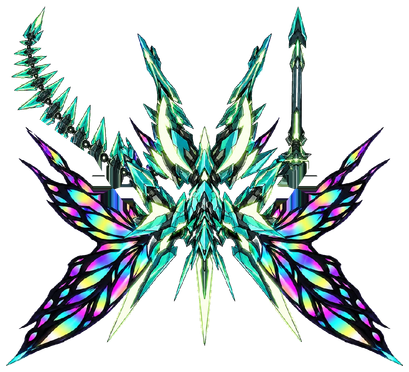
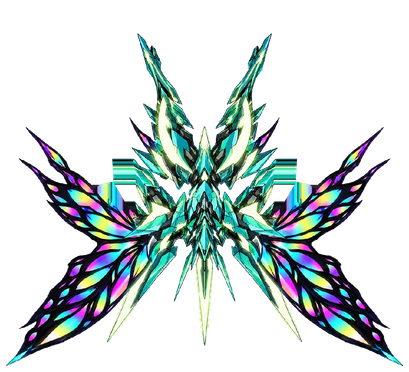
Lin v2 (Step 2): rig parts on the current sprite (one-sided whip and spear, mirrored wings), weapon-free under image (fillAll/fillGrow), opt-in rig sx and src/bodySrc 'under'; linRig.js whip lash, spear thrust, wing beat; linArt.js on the rig path

diff --git a/src/pilots/art/mechaArt.js b/src/pilots/art/mechaArt.js
@@ -34,9 +34,10 @@ import { FADE_OUT } from '../../fx/Particles.js';
 //               turret) packed into the same texture; frame via extra(name)
 //   rig         component mecha (layers.json `rig: true`, process-art `parts`):
 //               { order: [layer names incl. 'body'],
-//                 pose(p, name) → { rot, tx, ty, s, ox, oy, alpha, hide } per layer
+//                 pose(p, name) → { rot, tx, ty, s, sx, ox, oy, alpha, hide } per layer
 //                   (tx/ty slide in the layer's own frame, then rotate/scale
-//                   about its pivot, then ox/oy offset; @2x px),
+//                   about its pivot, then ox/oy offset; @2x px; optional sx
+//                   squashes it horizontally toward the pivot, e.g. Lin's wing beat),
 //                 attach: { anchorName: layerName } (anchors that ride a layer),
 //                 before(p, b, api, name): drawn just under a layer (keep it to the
 //                   layer's own texture, e.g. api.drawLayer halos: no batch flush;
@@ -211,7 +212,7 @@ function polyBox(poly, pad, w, h) {
  * @param imageW width of the @2x image the layer JSON is written for
  */
 export function splitLayers(img, layers, imageW, wingImg = img, outlinePx = 0) {
-  if (layers.rig) return splitRig(img, layers, imageW, outlinePx);
+  if (layers.rig) return splitRig(img, layers, imageW, outlinePx, wingImg);
   const W = img.naturalWidth || img.width, H = img.naturalHeight || img.height;
   const sx = W / imageW; // layers.json is in @2x pixels; scale if a 1x image is passed
   const sc = (p) => p.map(([x, y]) => [x * sx, y * sx]);
@@ -270,8 +271,11 @@ export function splitLayers(img, layers, imageW, wingImg = img, outlinePx = 0) {
  * hard. At rest the layers cover their holes exactly; moved, they leave no
  * slivers of themselves behind on the body. `outlinePx`: the outline variant's
  * outline width (hole and layer grow by it, so the outline moves with the part).
+ * Opt-in `src: 'under'` on a layer / `bodySrc: 'under'` (Lin): take the pixels
+ * from `under` (the weapon-free image, wing and body pixels under held weapons
+ * filled in) instead of the sprite, so a weapon that moves away leaves no hole.
  */
-function splitRig(img, layers, imageW, outlinePx = 0) {
+function splitRig(img, layers, imageW, outlinePx = 0, under = img) {
   const W = img.naturalWidth || img.width, H = img.naturalHeight || img.height;
   const sx = W / imageW, sc = (p) => p.map(([x, y]) => [x * sx, y * sx]);
   // hole: the body loses each polygon grown by `hole` px (+ the outline), so no sliver of a
@@ -295,7 +299,7 @@ function splitRig(img, layers, imageW, outlinePx = 0) {
   const out = {};
   // Body: every part polygon removed (antialiased edge only).
   const body = canvas(W, H), bc = body.getContext('2d');
-  bc.drawImage(img, 0, 0, W, H);
+  bc.drawImage(layers.bodySrc === 'under' ? under : img, 0, 0, W, H);
   bc.globalCompositeOperation = 'destination-out';
   for (const L of Object.values(layers.layers)) bc.drawImage(solid(sc(L.poly), hole), 0, 0);
   out.body = { canvas: body, box: { x: 0, y: 0, w: W, h: H } };
@@ -307,7 +311,7 @@ function splitRig(img, layers, imageW, outlinePx = 0) {
     cx.fillStyle = '#fff';
     for (const ex of L.exclude || []) cx.drawImage(solid(sc(ex), hole), -box.x, -box.y);
     cx.globalCompositeOperation = 'source-in';
-    cx.drawImage(img, -box.x, -box.y, W, H);
+    cx.drawImage(L.src === 'under' ? under : img, -box.x, -box.y, W, H);
     out[name] = { canvas: c, box, pivot: [L.pivot[0] * sx, L.pivot[1] * sx] };
   }
   return out;
@@ -462,7 +466,7 @@ export function createMechaArt(cfg) {
     if (!part || !part.pivot) return [lx, ly];
     const ps = cfg.rig.pose(p, name) || {};
     const px = part.pivot[0] - hb[0], py = part.pivot[1] - hb[1], sc = ps.s ?? 1;
-    const dx = lx + (ps.tx || 0) - px, dy = ly + (ps.ty || 0) - py, c = Math.cos(ps.rot || 0), sn = Math.sin(ps.rot || 0);
+    const dx = (lx + (ps.tx || 0) - px) * (ps.sx ?? 1), dy = ly + (ps.ty || 0) - py, c = Math.cos(ps.rot || 0), sn = Math.sin(ps.rot || 0);
     return [px + sc * (dx * c - dy * sn) + (ps.ox || 0), py + sc * (dx * sn + dy * c) + (ps.oy || 0)];
   }
 
@@ -544,7 +548,7 @@ export function createMechaArt(cfg) {
         const [cx, cy] = still ? [bx.x + bx.w / 2 - hb[0], bx.y + bx.h / 2 - hb[1]] : rigPoint(p, set, name, bx.x + bx.w / 2 - hb[0], bx.y + bx.h / 2 - hb[1]);
         const [wx, wy] = place(cx + (o.dx || 0), cy + (o.dy || 0));
         const t = o.tint || [1, 1, 1], sc = (ps.s ?? 1) * g;
-        b.draw(part.frame, wx, wy, bx.w * k * sq * sc, bx.h * k * sc, rot + (ps.rot || 0), t[0], t[1], t[2], (o.alpha ?? a) * (ps.alpha ?? 1), o.add ?? 0);
+        b.draw(part.frame, wx, wy, bx.w * k * sq * sc * (ps.sx ?? 1), bx.h * k * sc, rot + (ps.rot || 0), t[0], t[1], t[2], (o.alpha ?? a) * (ps.alpha ?? 1), o.add ?? 0);
       };
       const api = {
         place, k, rot, sq, hb, A, set, a, x, y: y + bob, drawLayer,

diff --git a/src/pilots/linRig.js b/src/pilots/linRig.js
@@ -1,0 +1,97 @@
+// LIN v2 rig (ASSET_NOTES.md "Rebuild v2"): the whip (left hand; handle half +
+// tip half, split by process-art), the spear (right hand) and the two butterfly
+// wings, on the shared rig path (layers.json `rig: true`).
+// - The whip is swung out in front of the mecha (turned about his hand) and
+//   lashes across the front with every volley, alternating left and right; the
+//   tip half lags behind the handle and whips after it. Its crystals light up in
+//   a wave from the handle to the tip (rigState().glow, for the FX).
+// - The spear thrusts along its axis with each focus throw; the ultimate draws
+//   it back and tilts it while charging, then thrusts.
+// - The wings beat like the art test's butterfly flap (mechaArt `flap`: the
+//   phase and depth come from linArt.animate), flaring while charging.
+
+export const RIG = {
+  order: ['wingL', 'wingR', 'body', 'spearR', 'whipRootL', 'whipTipL'],
+  attach: {
+    whipMid: 'whipRootL', whipJoint: 'whipRootL',
+    whipTip: 'whipTipL', whip: 'whipTipL',
+    spearTip: 'spearR', spear: 'spearR', blade: 'spearR',
+  },
+};
+
+const FRONT = 0.73;   // rad: the whip's turn about his hand, from his side (as painted) to in front of the mecha
+const LASH = 0.2;     // rad each way across the front
+const THRUST = 24, DRAW = 16; // @2x px the spear slides along its axis
+
+/** Rig state on p.ps.lr (created on first use). */
+export function rigState(p) {
+  return p.ps.lr || (p.ps.lr = {
+    out: 0, lash: 0, lashT: 0, slow: 0, dir: 1, glow: 99, last: -99,
+    ext: 0, extT: 0, extHold: 0, tilt: 0, tiltT: 0, flare: 0, flareT: 0, coil: 0, coilT: 0,
+  });
+}
+
+/** One step. */
+export function step(p) {
+  const r = rigState(p), alive = p.state === 'alive';
+  // The whip swings out in front (and back to his side when he's down).
+  r.out += ((alive ? 1 : 0) - r.out) * 0.12;
+  if (p.t - r.last > 12) r.lashT = Math.sin(p.t * 0.05) * 0.04; // idle sway
+  r.lash += (r.lashT - r.lash) * 0.45;
+  r.slow += (r.lash - r.slow) * 0.18; // the tip half follows the handle late
+  r.glow++;
+  r.coil += (r.coilT - r.coil) * 0.2; r.coilT = 0;
+  // Spear: thrust / drawn back / rest.
+  if (r.extHold > 0) r.extHold--; else r.extT = 0;
+  r.ext += (r.extT - r.ext) * (r.extT > r.ext ? 0.6 : 0.25);
+  r.tilt += (r.tiltT - r.tilt) * 0.15; r.tiltT = 0;
+  r.flare += (Math.max(r.flareT, p.focus ? 0.3 : 0) - r.flare) * 0.12; r.flareT = 0;
+}
+
+/** A lash: the whip sweeps across the front the other way, and its crystals light up. */
+export function lash(p) {
+  const r = rigState(p);
+  r.dir = -r.dir;
+  r.lashT = r.dir * LASH;
+  r.glow = 0;
+  r.last = p.t;
+  return r.dir;
+}
+
+/** The spear thrusts (n steps held out). */
+export function thrust(p, n = 4) { const r = rigState(p); r.extT = 1; r.extHold = n; }
+/** The spear is drawn back and tilted inward (call each step while charging). */
+export function drawBack(p, k = 1) { const r = rigState(p); r.extT = -k; r.extHold = 2; r.tiltT = k; }
+/** Wings flare toward f this step; the whip coils toward c (0..1) this step. */
+export function flare(p, f) { const r = rigState(p); r.flareT = Math.max(r.flareT, f); }
+export function coil(p, c) { const r = rigState(p); r.coilT = Math.max(r.coilT, c); }
+
+const rotv = (x, y, a) => [x * Math.cos(a) - y * Math.sin(a), x * Math.sin(a) + y * Math.cos(a)];
+
+/** Pose of a layer (A: the anchors in @2x px). */
+export function pose(p, name, A) {
+  const r = rigState(p), ps = p.ps;
+  if (name === 'wingL' || name === 'wingR') {
+    // The art test's butterfly flap (mechaArt wingPose), plus the rig's flare.
+    const s = name === 'wingL' ? -1 : 1, fl = Math.max(ps.flare || 0, r.flare), fold = ps.fold || 0;
+    const breath = Math.sin(p.t * 0.06), beat = 0.5 - 0.5 * Math.cos(ps.flapPh || 0);
+    const out = fl * 8 - fold * 6 + breath * 0.8;
+    return {
+      ox: s * out,
+      rot: s * (0.035 * (fl - fold) + 0.006 * breath + 0.05 * beat - 0.06 * fold - 0.05 * r.flare),
+      sx: 1 - (ps.flapAmp || 0.2) * beat * (1 - 0.5 * r.flare) - fold * 0.4 + fl * 0.04,
+    };
+  }
+  if (name === 'spearR') {
+    const d = r.ext >= 0 ? r.ext * THRUST : r.ext * DRAW;
+    return { rot: -0.14 * r.tilt, ty: -d };
+  }
+  // Whip: the handle half turns about the hand; the tip half turns about the joint on top of it.
+  const coilK = r.coil;
+  const root = r.out * FRONT + r.lash - 0.25 * coilK;
+  if (name === 'whipRootL') return { rot: root };
+  const lag = (r.slow - r.lash) * 1.6 + 0.5 * coilK;
+  const P = A.whipHand, J = A.whipJoint, dx = J[0] - P[0], dy = J[1] - P[1];
+  const [ax, ay] = rotv(dx, dy, root), [bx, by] = rotv(dx, dy, root + lag);
+  return { rot: root + lag, ox: ax - bx, oy: ay - by };
+}

diff --git a/src/pilots/linArt.js b/src/pilots/linArt.js
@@ -1,10 +1,13 @@
 import { createMechaArt } from './art/mechaArt.js';
+import { RIG, pose } from './linRig.js';
 
-// LIN ART TEST: the hand-made Petal Engine (src/pilot concept art/Lin Hayase,
-// ASSET_NOTES.md), built on the shared mecha-art module. The sprite flies
-// feet-first; the crystal legs (feet) never fire. No thrusters: the butterfly
-// wings beat (`flap`) and are drawn under the body, so the spear (right hand)
-// and whip (left hand) stay on top. 90 units tall.
+// LIN v2 (ASSET_NOTES.md "Rebuild v2"): the Petal Engine as a component mecha
+// on the same sprite, built on the shared mecha-art module's rig path. The whip
+// (left hand, handle and tip halves), the spear (right hand) and the butterfly
+// wings move as linRig.js says; the body and wings draw from the weapon-free
+// `under` image (lin_wings@2x.png), so the moved weapons leave no hole. The FX
+// around them come from linFx.js (RIG_FX). The crystal legs (feet) never fire.
+// No thrusters: the butterfly wings beat. 90 units tall.
 
 // Owner's choice for every effect: glowing emerald green, black and white.
 export const PAL = {
@@ -16,6 +19,9 @@ export const PAL = {
 /** The black part: drawn alpha-blended (additive light can't make black). */
 export const DARK = [0.01, 0.05, 0.03];
 
+/** FX hooks around the rig's layers; filled in by linFx.js (avoids an import cycle). */
+export const RIG_FX = { before: null, overlay: null };
+
 export const linArt = createMechaArt({
   id: 'lin',
   pal: PAL,
@@ -25,13 +31,22 @@ export const linArt = createMechaArt({
     anchors: {
       hitbox: [204.5, 201.4], head: [204.5, 238.5], core: [204.5, 127.3],
       blade: [296.2, 84.1], spear: [298.7, 13.1], whip: [39.3, 16.2],
-      wingL: [167.5, 220], wingR: [241.6, 220],
+      whipHand: [145.9, 189.1], whipJoint: [50.2, 100.2], whipMid: [93.4, 149], whipTip: [44, 7.5],
+      spearHand: [295.6, 189.1], spearTip: [298.7, 13.1],
+      wingL: [167.5, 220], wingR: [241.6, 220], wingPivotL: [152, 220], wingPivotR: [257, 220],
     },
   },
   flames: [],
-  flap: true,
+  flap: true, // animate() still advances the beat phase; linRig.js poses the wings from it
   // Pilot-texture extras: the swarm turret, and the owner's two big FX picks
   // (drawn a few times per frame, so they stay out of the shared atlas).
   extras: { turret: 'turret', cosmic: 'fxCosmic', star: 'fxStar' },
+  rig: {
+    order: RIG.order,
+    attach: RIG.attach,
+    pose: (p, name) => pose(p, name, linArt.anchorData().anchors),
+    before: (p, b, api, name) => RIG_FX.before && RIG_FX.before(p, b, api, name),
+    overlay: (p, b, api) => RIG_FX.overlay && RIG_FX.overlay(p, b, api),
+  },
   size: 90,
 });
